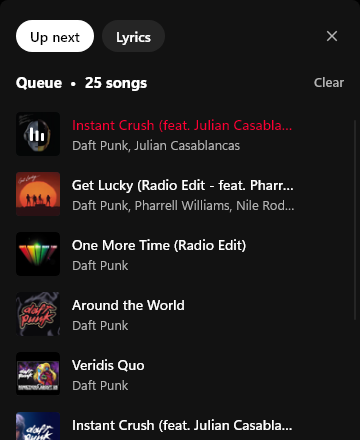
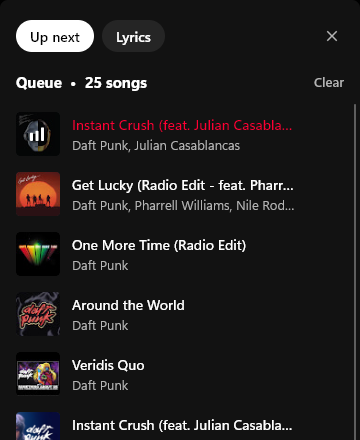
docs: Refresh the README and screenshots
Lists instead of tables, which GitHub draws with borders, flat badges, and screenshots retaken in a bigger window with the library collapsed.

diff --git a/README.md b/README.md
@@ -2,132 +2,66 @@
 
 <img src="docs/banner.svg" width="100%" alt="ytm-native: YouTube Music, as a real Windows app">
 
-<br>
+### Fast, light and fully native. No browser tab, no Electron, just music.
 
-**Fast, light and fully native: no browser tab, no Electron, just music.**
-
-<br>
-
-[![Latest release](https://img.shields.io/github/v/release/Visxoz/ytm-native?style=for-the-badge&label=release&color=FF0033)](https://github.com/Visxoz/ytm-native/releases/latest)
-[![Downloads](https://img.shields.io/github/downloads/Visxoz/ytm-native/total?style=for-the-badge&color=FF0033)](https://github.com/Visxoz/ytm-native/releases)
-[![Windows](https://img.shields.io/badge/platform-Windows-0078D4?style=for-the-badge&logo=windows11&logoColor=white)](#install)
-[![Built with Rust](https://img.shields.io/badge/Built%20with-Rust-B7410E?style=for-the-badge&logo=rust&logoColor=white)](#under-the-hood)
+[![Release](https://img.shields.io/github/v/release/Visxoz/ytm-native?style=flat&labelColor=18181b&color=ff0033&label=release)](https://github.com/Visxoz/ytm-native/releases/latest)
+[![Downloads](https://img.shields.io/github/downloads/Visxoz/ytm-native/total?style=flat&labelColor=18181b&color=ff0033&label=downloads)](https://github.com/Visxoz/ytm-native/releases)
+[![CI](https://img.shields.io/github/actions/workflow/status/Visxoz/ytm-native/ci.yml?branch=main&style=flat&labelColor=18181b&label=ci)](https://github.com/Visxoz/ytm-native/actions/workflows/ci.yml)
+[![Windows 10 and 11](https://img.shields.io/badge/Windows-10%20%7C%2011-0078d4?style=flat&labelColor=18181b&logo=windows11&logoColor=white)](#install)
+[![Rust](https://img.shields.io/badge/Rust-2024-b7410e?style=flat&labelColor=18181b&logo=rust&logoColor=white)](#under-the-hood)
+[![Licence](https://img.shields.io/github/license/Visxoz/ytm-native?style=flat&labelColor=18181b&color=3f3f46&label=licence)](LICENSE)
 
 <br>
 
-<a href="https://github.com/Visxoz/ytm-native/releases/latest">
-  <img src="https://img.shields.io/badge/Download%20for%20Windows-FF0033?style=for-the-badge&logo=windows11&logoColor=white" alt="Download for Windows" height="44">
-</a>
+<a href="https://github.com/Visxoz/ytm-native/releases/latest"><img src="https://img.shields.io/badge/Download_for_Windows-ff0033?style=for-the-badge&logo=windows11&logoColor=white" alt="Download for Windows" height="40"></a>
 
 <br><br>
 
-<img src="docs/screenshot.png" width="900" alt="ytm-native showing an artist page, with the queue open and a song playing">
+<img src="docs/screenshot.png" width="100%" alt="ytm-native showing an artist page, with the queue open and a song playing">
 
 </div>
 
-<br>
+## Features
 
-## Why ytm-native
+- **Light.** Starts in a moment and stays around 160 MB while you browse. No runtime to install, and nothing left running in the background.
+- **Sounds better.** The best stream YouTube offers, **256 kbps Opus** with Premium, or a lower quality when data is dear. Gapless playback and loudness levelling, like YouTube Music.
+- **Plays like YouTube Music.** Search finds songs and uploads alike, radio and autoplay keep going, and shuffle, repeat, play next, history and the queue all work as you'd expect.
+- **Feels at home.** A clean dark interface with headers tinted from the artwork, a collapsible library, smooth animations, and lyrics a click away.
+- **Made for Windows.** Media keys, the Windows media overlay, Discord status, and a window that remembers where you left off, down to the song and position.
+- **Your library, safely.** Sign in on Google's own page for your playlists, albums, artists and Liked music. The sign-in is stored encrypted, for your Windows account only.
 
-<table>
-<tr>
-<td width="50%" valign="top">
-
-### Light as a feather
-A single portable exe that starts in a moment and stays around 160 MB while you browse. No runtime to install, nothing running in the background.
-
-</td>
-<td width="50%" valign="top">
-
-### Sounds better
-Always the best stream YouTube offers, and **256 kbps Opus** with YouTube Premium, or a lower quality when data is dear. Songs play back to back with no gap, and volume levels out between them, like on YouTube Music.
-
-</td>
-</tr>
-<tr>
-<td width="50%" valign="top">
-
-### Feels at home
-A clean dark interface with headers tinted from the artwork, a collapsible library, smooth animations, and lyrics and the queue a click away.
-
-</td>
-<td width="50%" valign="top">
-
-### Made for Windows
-Media keys, the Windows media overlay, Discord status, and a window that remembers where you left it, down to the song and position.
-
-</td>
-</tr>
-<tr>
-<td width="50%" valign="top">
-
-### Plays like YouTube Music
-Search finds songs and uploads alike and starts a radio after the one you pick, autoplay keeps going, your history is a click away, and shuffle, repeat, play next and the queue all work as you'd expect.
-
-</td>
-<td width="50%" valign="top">
-
-### Your library, safely
-Sign in on Google's own page to get your playlists, albums, artists and Liked music. Your sign-in is stored encrypted, for your Windows account only.
-
-</td>
-</tr>
-</table>
-
-## Take a look
-
-<table>
-<tr>
-<td width="62%" align="center" valign="top">
-<img src="docs/artist.png" alt="An artist page with its header tinted from the artwork">
-<br><sub><b>Pages that feel alive.</b> Headers take their colour from the artwork.</sub>
-</td>
-<td width="38%" align="center" valign="top">
-<img src="docs/queue.png" alt="The queue panel, with the playing song highlighted">
-<br><sub><b>Up next and lyrics</b>, one click away.</sub>
-</td>
-</tr>
-<tr>
-<td colspan="2" align="center">
-<img src="docs/player.png" alt="The player bar, showing an Opus stream">
-<br><sub><b>Always the best stream</b>, with the codec and bitrate right there.</sub>
-</td>
-</tr>
-</table>
+<p align="center">
+  <img src="docs/artist.png" width="66%" alt="An artist page with its header tinted from the artwork">
+  <img src="docs/queue.png" width="32%" alt="The queue panel, with the playing song highlighted">
+  <br>
+  <img src="docs/player.png" width="99%" alt="The player bar, showing an Opus stream">
+</p>
 
 ## Install
 
-Download from the [latest release](https://github.com/Visxoz/ytm-native/releases/latest):
+Grab one from the [latest release](https://github.com/Visxoz/ytm-native/releases/latest):
 
-| File | What it is |
-| :-- | :-- |
-| `ytm-native_<version>_x64-setup.exe` | The installer. Installs for your account only, with no admin prompt, and adds a Start menu entry and an uninstaller. |
-| `ytm-native_<version>_x64-portable.exe` | The portable app. Put it anywhere and run it; nothing is installed. |
+- **`ytm-native_<version>_x64-setup.exe`**: installs for your account only, with no admin prompt, a Start menu entry and an uninstaller.
+- **`ytm-native_<version>_x64-portable.exe`**: put it anywhere and run it; nothing is installed.
 
-Either way, the app keeps itself up to date: when a new version is out, a dot appears on the settings icon, and **Settings ▸ Updates** installs it and restarts. Each download is checked against the release's SHA-256 checksums before it replaces anything. Automatic checks can be turned off there too.
-
-Optionally, choose **Sign in** and then **Sign in with Google** to bring your library over.
+Either way the app keeps itself up to date. When a new version is out, a dot appears on the account button, and **Settings ▸ Updates** installs it and restarts. Each download is checked against the release's SHA-256 checksums first.
 
 > [!NOTE]
-> The app isn't code-signed yet, so Windows SmartScreen may say it "protected your PC". Choose **More info**, then **Run anyway**. With Smart App Control on, Windows may block it outright: right-click the file, choose **Properties**, tick **Unblock**, and run it again.
-
-> [!TIP]
-> Signing in uses Microsoft Edge WebView2, which comes with Windows 11 and most Windows 10 PCs. If it's missing, you can paste cookies instead; see [Signing in](#signing-in).
+> The app isn't code-signed yet, so SmartScreen may say it "protected your PC": choose **More info**, then **Run anyway**. If Smart App Control blocks it, right-click the file, choose **Properties**, tick **Unblock**, and run it again.
 
 ## Shortcuts
 
-| Keys | Action |
-| :-- | :-- |
-| <kbd>Space</kbd> | Play or pause |
-| <kbd>Ctrl</kbd> + <kbd>K</kbd> | Search |
-| <kbd>Ctrl</kbd> + <kbd>B</kbd> | Show or hide the library |
-| <kbd>Ctrl</kbd> + <kbd>←</kbd> / <kbd>→</kbd> | Previous or next song |
-| <kbd>Alt</kbd> + <kbd>←</kbd> | Back |
-| Right-click a song | Play next, add to queue, radio, go to artist or album |
+<kbd>Space</kbd> play or pause &nbsp;·&nbsp;
+<kbd>Ctrl</kbd> <kbd>K</kbd> search &nbsp;·&nbsp;
+<kbd>Ctrl</kbd> <kbd>B</kbd> library &nbsp;·&nbsp;
+<kbd>Ctrl</kbd> <kbd>←</kbd> <kbd>→</kbd> previous or next song &nbsp;·&nbsp;
+<kbd>Alt</kbd> <kbd>←</kbd> back
+
+Right-click a song to play it next, add it to the queue, start a radio, or go to its artist or album.
 
 ## Signing in
 
-Choose **Sign in**, then **Sign in with Google**, and sign in on Google's page as usual. The window closes by itself once you're in.
+Choose **Sign in**, then **Sign in with Google**, and sign in on Google's page as usual. The window closes by itself once you're in. It uses Microsoft Edge WebView2, which comes with Windows 11 and most Windows 10 PCs.
 
 <details>
 <summary><b>Prefer pasting cookies?</b></summary>
@@ -140,8 +74,6 @@ Open music.youtube.com in a private browser window and sign in. Copy either a co
 > [!WARNING]
 > ytm-native is an unofficial client. It uses YouTube's undocumented API, which is against YouTube's terms of service. Google could ask you to confirm you're not a bot or sign the session out, and could in principle restrict the account. A separate account is the safest choice.
 
-<br>
-
 ## Under the hood
 
 <details>
@@ -150,21 +82,19 @@ Open music.youtube.com in a private browser window and sign in. Copy either a co
 
 The interface, the player and the audio pipeline are all native Rust. A browser engine only appears while you sign in, to show Google's page.
 
-| Part | Built on |
-| :-- | :-- |
-| YouTube Music data: search, pages, radio, lyrics, library | [`rustypipe`](https://codeberg.org/ThetaDev/rustypipe) |
-| Stream URLs | YouTube's player endpoint, called directly (`src/streams`) |
-| Demuxing and AAC | [`symphonia`](https://github.com/pdeljanov/Symphonia) |
-| Opus | libopus 1.3.1, as Rust ([`unsafe-libopus`](https://crates.io/crates/unsafe-libopus)) |
-| Audio output | [`cpal`](https://github.com/RustAudio/cpal), through WASAPI |
-| Interface | [Slint](https://slint.dev), drawn by Skia on the GPU through Direct3D 12 |
-| Networking | `reqwest` over Windows SChannel and HTTP/2 |
-| Google sign-in | WebView2 through [`wry`](https://github.com/tauri-apps/wry), only while signing in |
-| Media keys | [`souvlaki`](https://github.com/Sinono3/souvlaki) |
+- **YouTube Music data** (search, pages, radio, lyrics, library): [rustypipe](https://codeberg.org/ThetaDev/rustypipe)
+- **Stream URLs**: YouTube's player endpoint, called directly (`src/streams`)
+- **Demuxing and AAC**: [Symphonia](https://github.com/pdeljanov/Symphonia)
+- **Opus**: libopus 1.3.1, as Rust ([unsafe-libopus](https://crates.io/crates/unsafe-libopus))
+- **Audio output**: [cpal](https://github.com/RustAudio/cpal), through WASAPI
+- **Interface**: [Slint](https://slint.dev), drawn by Skia on the GPU through Direct3D 12
+- **Networking**: reqwest over Windows SChannel and HTTP/2
+- **Google sign-in**: WebView2 through [wry](https://github.com/tauri-apps/wry), only while signing in
+- **Media keys**: [souvlaki](https://github.com/Sinono3/souvlaki)
 
-Most YouTube clients get stream URLs scrambled by YouTube's player JavaScript. The visionOS client gets plain ones, so the app asks as that client and needs no JavaScript engine. With Premium, the app unscrambles the web player's URLs itself, in a short-lived QuickJS context with a cut-down copy of the player. When YouTube changes this, `src/streams/mod.rs` and `src/streams/premium` are the places to update.
+Most YouTube clients get stream URLs scrambled by YouTube's player JavaScript. The visionOS client gets plain ones, so the app asks as that client and needs no JavaScript engine, falling back to Android VR and iOS if YouTube changes it. With Premium, the app unscrambles the web player's URLs itself, in a short-lived QuickJS context with a cut-down copy of the player.
 
-Streams download in ranges and are decoded in the app; the next song's stream is looked up ahead of time. Skia draws on the GPU, so scrolling costs little CPU, and animations only run while something changes.
+Streams download in ranges and are decoded in the app, and the next song's stream is looked up ahead of time. Skia draws on the GPU, so scrolling costs little CPU, and animations only run while something changes.
 
 </details>
 
@@ -201,7 +131,5 @@ ytm-native is free software under the [GNU General Public License, version 3](LI
 <br>
 
 <div align="center">
-
 <sub>Not affiliated with, endorsed by or connected to YouTube or Google. YouTube Music is a trademark of Google LLC.</sub>
-
 </div>
